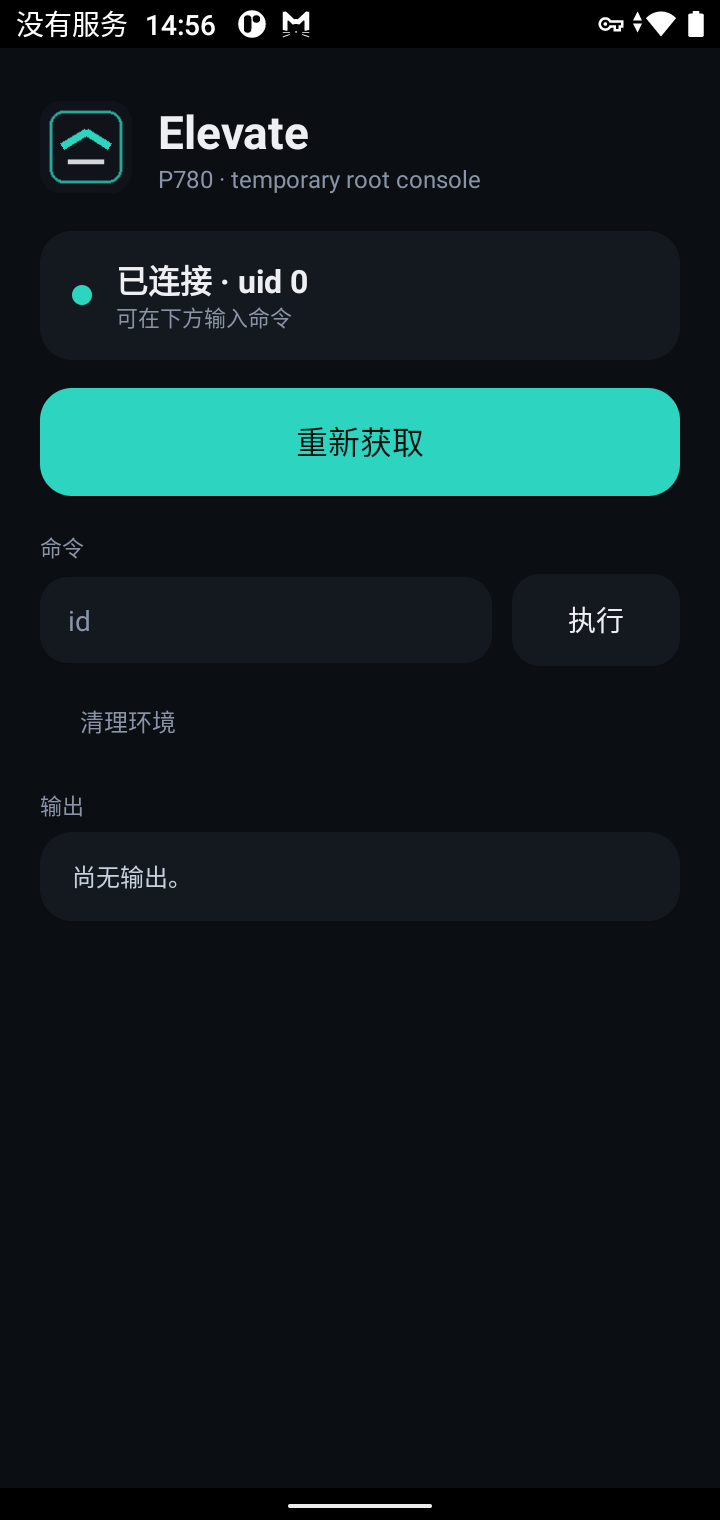
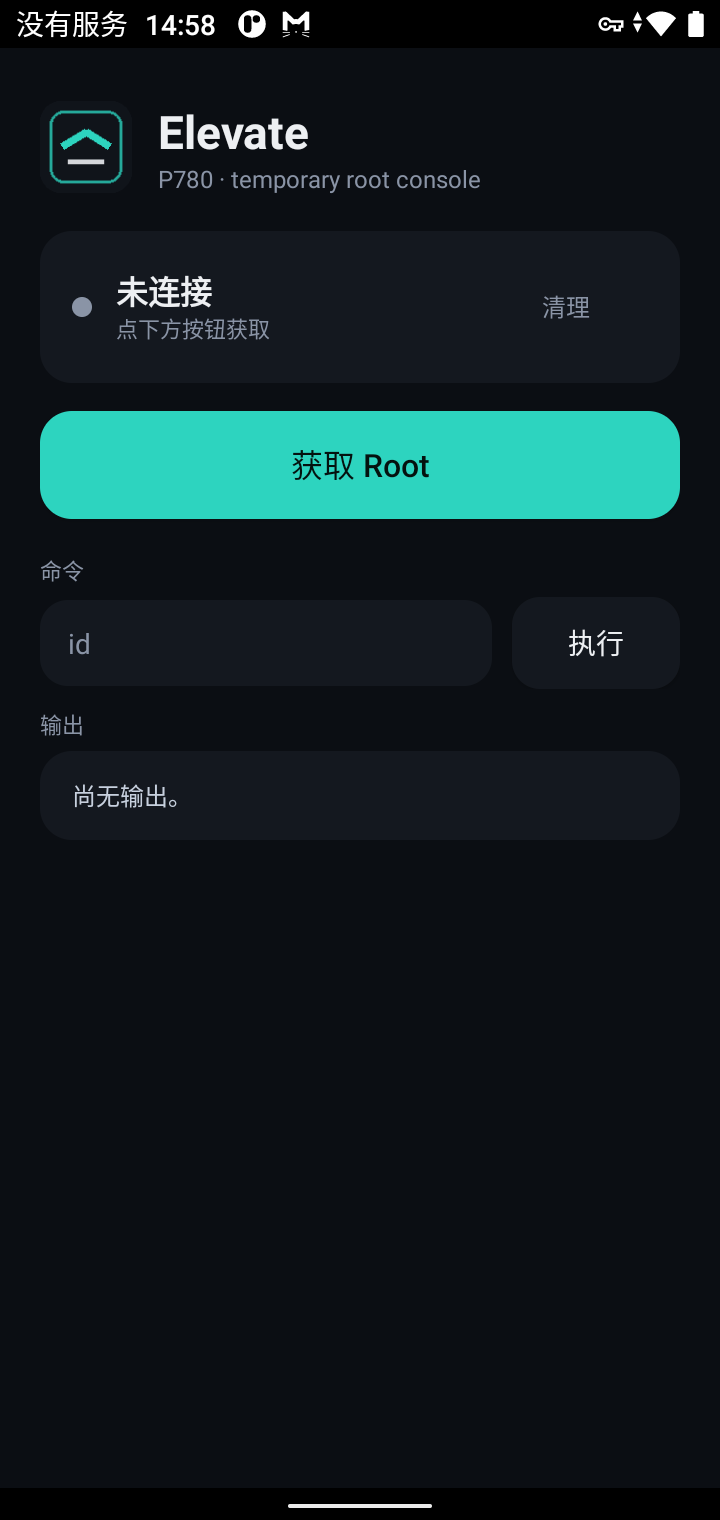
Turn the repository into the Elevate release project
- root README is now a tool landing page: download, usage, limits, build steps
- release/Elevate-1.0.apk ships the signed build
- cleanup button moved into the status card, right aligned
- previous research stays under docs/research and docs/rom as supporting material

diff --git a/app/elevate/app/src/main/java/top/dcmqht/p780ipsec/MainActivity.java b/app/elevate/app/src/main/java/top/dcmqht/p780ipsec/MainActivity.java
@@ -217,6 +217,30 @@ public final class MainActivity extends Activity {
         statusTexts.addView(hint);
         hintView = hint;
         statusCard.addView(statusTexts);
+        View spacer = new View(this);
+        statusCard.addView(spacer, new LinearLayout.LayoutParams(0, 1, 1f));
+
+        Button cleanButton = new Button(this);
+        cleanButton.setText("\u6e05\u7406");
+        cleanButton.setAllCaps(false);
+        cleanButton.setTextSize(12);
+        cleanButton.setTextColor(0xFF8A94A6);
+        cleanButton.setBackgroundColor(0x00000000);
+        cleanButton.setPadding(dp(10), 0, dp(4), 0);
+        cleanButton.setOnClickListener(v -> {
+            new Thread(() -> {
+                String r = libraryPatched() ? unpatchProbe() : null;
+                cleanupState();
+                ui.post(() -> {
+                    log(r != null && r.contains("ROLLBACK COMPLETE")
+                            ? "\u5df2\u6062\u590d\u5e93\u5e76\u6e05\u7406\u72b6\u6001\u3002"
+                            : "\u5df2\u6e05\u7406\u72b6\u6001\u3002");
+                    refreshStatus();
+                });
+            }).start();
+        });
+        statusCard.addView(cleanButton);
+
 
         LinearLayout.LayoutParams statusLp = new LinearLayout.LayoutParams(
                 LinearLayout.LayoutParams.MATCH_PARENT, LinearLayout.LayoutParams.WRAP_CONTENT);
@@ -282,30 +306,6 @@ public final class MainActivity extends Activity {
                 LinearLayout.LayoutParams.MATCH_PARENT, LinearLayout.LayoutParams.WRAP_CONTENT);
         cmdLp.topMargin = dp(6);
         root.addView(cmdRow, cmdLp);
-
-        // secondary: cleanup
-        Button cleanButton = new Button(this);
-        cleanButton.setText("\u6e05\u7406\u73af\u5883");
-        cleanButton.setAllCaps(false);
-        cleanButton.setTextSize(12);
-        cleanButton.setTextColor(dim);
-        cleanButton.setBackgroundColor(0x00000000);
-        cleanButton.setOnClickListener(v -> {
-            new Thread(() -> {
-                String r = libraryPatched() ? unpatchProbe() : null;
-                cleanupState();
-                ui.post(() -> {
-                    log(r != null && r.contains("ROLLBACK COMPLETE")
-                            ? "\u5df2\u6062\u590d\u5e93\u5e76\u6e05\u7406\u72b6\u6001\u3002"
-                            : "\u5df2\u6e05\u7406\u72b6\u6001\u3002");
-                    refreshStatus();
-                });
-            }).start();
-        });
-        LinearLayout.LayoutParams cleanLp = new LinearLayout.LayoutParams(
-                LinearLayout.LayoutParams.WRAP_CONTENT, LinearLayout.LayoutParams.WRAP_CONTENT);
-        cleanLp.topMargin = dp(4);
-        root.addView(cleanButton, cleanLp);
 
         // console
         TextView outLabel = new TextView(this);

diff --git a/README.md b/README.md
@@ -1,51 +1,83 @@
-# Rakuten Hand 5G / TINNO P780 研究档案
+# Elevate
 
-> 更新：2026-10-25（Asia/Shanghai）。记录机主实机取证、离线样本分析与候选源码实验。
-> **Bootloader 仍为 Locked；已有 `installd` 域受限 `uid 0` Root Shell 的实机记录，但没有完整 SELinux 权限或永久分区写入通道。**
+**Rakuten Hand 5G（TINNO P780）的临时 root 工具。**
 
-设备：Qualcomm 平台（holi / mannar），Android 11，内部固件 `P780AE_11.0_RMN_JP_162`，系统指纹末段 `264:user/release-keys`，内核 `5.4.233-qgki-gea5245e94afe-dirty`（Clang 11.0.2，2024-02-20 构建），`ro.debuggable=0`，SELinux Enforcing。
+一个 APK、一次点击、一次安装确认，即可在该机型上获得 `uid=0` 的 root 控制台。
+不写任何分区、不刷机、不关闭 SELinux；重启后自动恢复，恢复出厂即完全复原。
 
-## 当前结论
+![界面](docs/elevate-ui-20261025-final.png)
 
-| 方向 | 已取得的证据 | 当前状态 |
-|---|---|---|
-| DirtyFrag / CVE-2026-43284 | 公开 IPsec API 建 SA + `splice` 钉页 + 内核原地解密；有效 ESP 报文被接受并覆盖文件页；可写只读系统库页缓存 | **原语已实机确认** |
-| 代码执行 | 改写 `libc++.so` / `libbase.so` 代码页，在 **init 域**与 **installd 域**（均 uid 0）进行受限域代码执行；installd 域另已执行 `/system/bin/sh` | **实机记录成立；权限仍受 SELinux 限制** |
-| Root shell | 已实机记录 `uid=0(root)`、`u:r:installd:s0`、SELinux Enforcing；`/data/app` 与 dalvik-cache 写入测试成功 | **受限临时 Root Shell 已取得；非完整 Root** |
-| AVB 测试根密钥 | 本机 TEE 证书公钥摘要匹配 AOSP 默认 RSA4096 AVB 测试公钥；vbmeta digest 同时吻合 | 公钥身份已核验；不等于可写入或解锁 |
-| DSU / GSI | A/B 槽离线验签通过；B 已安装并尝试启动，最终回原厂；恢复出厂后原生 Loader 也由机主报告回退 | **路线已停止**；失败阶段未知 |
-| OEM Unlock 灰化 | Journey gate：`OemLockService` 读 `ro.boot.journey.customer=1` 后返回 false；296 份去壳 APK/JAR 中仅 6 个直接调用点 | 静态根因已定位；无普通调用者入口 |
-| Fastboot / EDL | unlock 系列全 `unknown command`；QDL v2.8 通到 Sahara v2（HWID / PKHash 已记录） | 未取得 Firehose；缺匹配签名的 programmer 与原厂镜像 |
-| GhostLock / CVE-2026-43499 | 配置满足、TINNO 5.4.61 有同形 `remove_waiter` 调用链、tracefs 有候选指针 | 本机 Image / 符号已有；仍缺逐构建布局、缓解范围与适用性结论 |
-| 源码与内核身份 | 实机 `config.gz` 5238 项；匹配 Clang11 候选编译与结构测量 | 本机 `Image` 和 173,205 个符号已核验；仍缺原厂调试 `vmlinux` / DWARF / 对应完整源码 |
+## 下载
 
-结论以 [`docs/STATUS.md`](docs/STATUS.md) 为准；任务与验收标准见 [`docs/NEXT_STEPS.md`](docs/NEXT_STEPS.md)。
+见 [`release/Elevate-1.0.apk`](release/Elevate-1.0.apk)（约 58 KB）。
 
-## 导航
+## 使用
 
-| 入口 | 内容 |
+1. 安装 APK，打开 **Elevate**；
+2. 首次会提示授予「安装未知应用」权限，按引导打开开关；
+3. 点 **获取 Root** → 系统弹出「要安装此应用吗？」→ 点 **安装**；
+4. 若 Play Protect 提示风险，点 **仍然安装**；
+5. 约 5–10 秒后状态变为 **已连接 · uid 0**；
+6. 在命令框输入 `id` 等命令，点 **执行** 查看结果。
+
+重启后 root 消失，重复第 3 步即可。想中途回到干净状态，点状态卡右侧的 **清理**。
+
+## 能力边界
+
+| 可以做 | 不可以做 |
 |---|---|
-| [`docs/index.md`](docs/index.md) | **全量文档索引**（自动生成，含全部专题与旧档） |
-| [`docs/STATUS.md`](docs/STATUS.md) | 当前结论、证据等级与边界 |
-| [`docs/NEXT_STEPS.md`](docs/NEXT_STEPS.md) | 下一步计划与停止条件 |
-| [`docs/HISTORY.md`](docs/HISTORY.md) | 时间线 |
-| [`docs/EVIDENCE_MANIFEST.md`](docs/EVIDENCE_MANIFEST.md) | 证据清单（路径 / 字节 / SHA-256） |
-| [`docs/ARCHITECTURE.md`](docs/ARCHITECTURE.md) | 目录职责与维护约定 |
-| [`docs/rom/README.md`](docs/rom/README.md) | ROM Release 七个资产索引（全部上线） |
-| [`docs/rom/AUDIT-20261025.md`](docs/rom/AUDIT-20261025.md) | 元数据与清单审计；真实 TAR 复核待本地运行 |
-| [`tools/rom/verify_release.py`](tools/rom/verify_release.py) | 本地哈希、Product 合并、TAR 文件清单核验 |
-| [`docs/research/p780-rom-kernel-system-triage-20261025.md`](docs/research/p780-rom-kernel-system-triage-20261025.md) | 内核/系统组件静态分析范围与 Root 能力边界 |
-| [`tools/README.md`](tools/README.md) | 可复跑工具 |
-| [`SECURITY.md`](SECURITY.md) | 范围与伦理 |
+| 以 uid 0 读写 `/data`（应用私有目录、`/data/app`、`/data/dalvik-cache`、`/data/local/tmp`） | 写 `/system`、`/vendor` |
+| 执行 `/system/bin/sh` 的内建命令与脚本逻辑 | 执行 `ls`/`cat`/`toybox` 等系统二进制 |
+| 枚举全部 `/data/data` 应用目录 | 关闭 SELinux、常驻守护进程 |
+| 读取任意可读文件（含系统文件） | 保持 root 跨重启 |
 
-## 最新专题
+> 这是**文件级 root**，不是 `su` 式的完整 shell。域为 `u:r:installd:s0`。
 
-- [`docs/research/p780-installd-root-shell-20261025.md`](docs/research/p780-installd-root-shell-20261025.md) — 受限 `installd` 域 uid 0 shell 实机记录及能力边界。
-- [`docs/research/p780-kernel-symbol-recovery-20261025.md`](docs/research/p780-kernel-symbol-recovery-20261025.md) — 本机 Image 符号恢复和独立核验。
+## 原理
 
-- [`docs/research/p780-dirtyfrag-live-exploit-20261025.md`](docs/research/p780-dirtyfrag-live-exploit-20261025.md) — DirtyFrag 实机利用链：原语确认、系统库写入、init/installd 域代码执行、能力边界与回滚。
-- [`tools/dirtyfrag-probe/README.md`](tools/dirtyfrag-probe/README.md) — 配套探针、钩子桩与离线分析工具。
+1. **写入**：利用 DirtyFrag（CVE-2026-43284）页缓存写原语，把 52 个 16 字节块写进
+   `/system/lib64/libc++.so`，劫持 `std::ostream::sentry` 入口，载荷放进零引用的
+   `__do_get` 函数里；
+2. **触发**：安装内置的 13.5 KB 空包（`top.dcmqht.trigger`，无 launcher、无代码），
+   `installd` 处理安装时经过 `libbase::LogMessage` → 命中钩子；
+3. **执行**：载荷在 `installd` 域（uid 0）fork 出 `sh`，轮询应用私有目录下的命令文件，
+   把结果写回；
+4. **可回收**：清理会先发 `__quit` 让守护进程退出，再从备份恢复被改写的库字节。
 
-## 范围
+详情见 [`docs/research/p780-root-daemon-20261025.md`](docs/research/p780-root-daemon-20261025.md)。
 
-本仓库只做机主自有设备的只读取证、离线分析与可回滚的受控实验；不包含第三方利用载荷、不提供解锁/刷写服务、不针对他人设备。
+## 从源码构建
+
+```bash
+cd app/elevate
+python build_elevate.py      # 产出 Elevate.apk
+```
+
+依赖：`aapt2`、`javac --release 11`、`d8`、NDK clang、`zipalign`、`apksigner`。
+
+## 仓库结构
+
+| 路径 | 内容 |
+|---|---|
+| `app/elevate/` | App 源码、构建脚本、图标、内嵌触发包 |
+| `release/` | 可直接安装的 APK |
+| `docs/research/` | 前期的完整研究记录（利用链、内核镜像、符号表、结构体偏移、ROM 提取） |
+| `docs/rom/` | 该机型最终 ROM 的内容提取索引 |
+| `tools/` | 可复跑的分析与探针工具 |
+
+## 兼容性
+
+仅适用于 **Rakuten Hand 5G / TINNO P780**（Android 11，内核
+`5.4.233-qgki-gea5245e94afe-dirty`，构建 `P780AE_11.0_RMN_JP_162`）。
+其他机型请勿使用：载荷中的函数偏移与结构体布局是逐构建验证的。
+
+## 免责声明
+
+仅限机主本人设备的研究与备份用途。使用本工具产生的一切后果由使用者承担。
+本仓库不提供解锁 bootloader、绕过账户锁或刷写分区的能力。
+
+## 前期研究
+
+本项目源自一条完整的研究线：从页面缓存写原语，到内核镜像提取、符号表重建、
+结构体偏移验证，最终落到这个 App。全部记录保留在 [`docs/research/`](docs/research/) 下，
+包括失败的尝试与踩过的坑。
